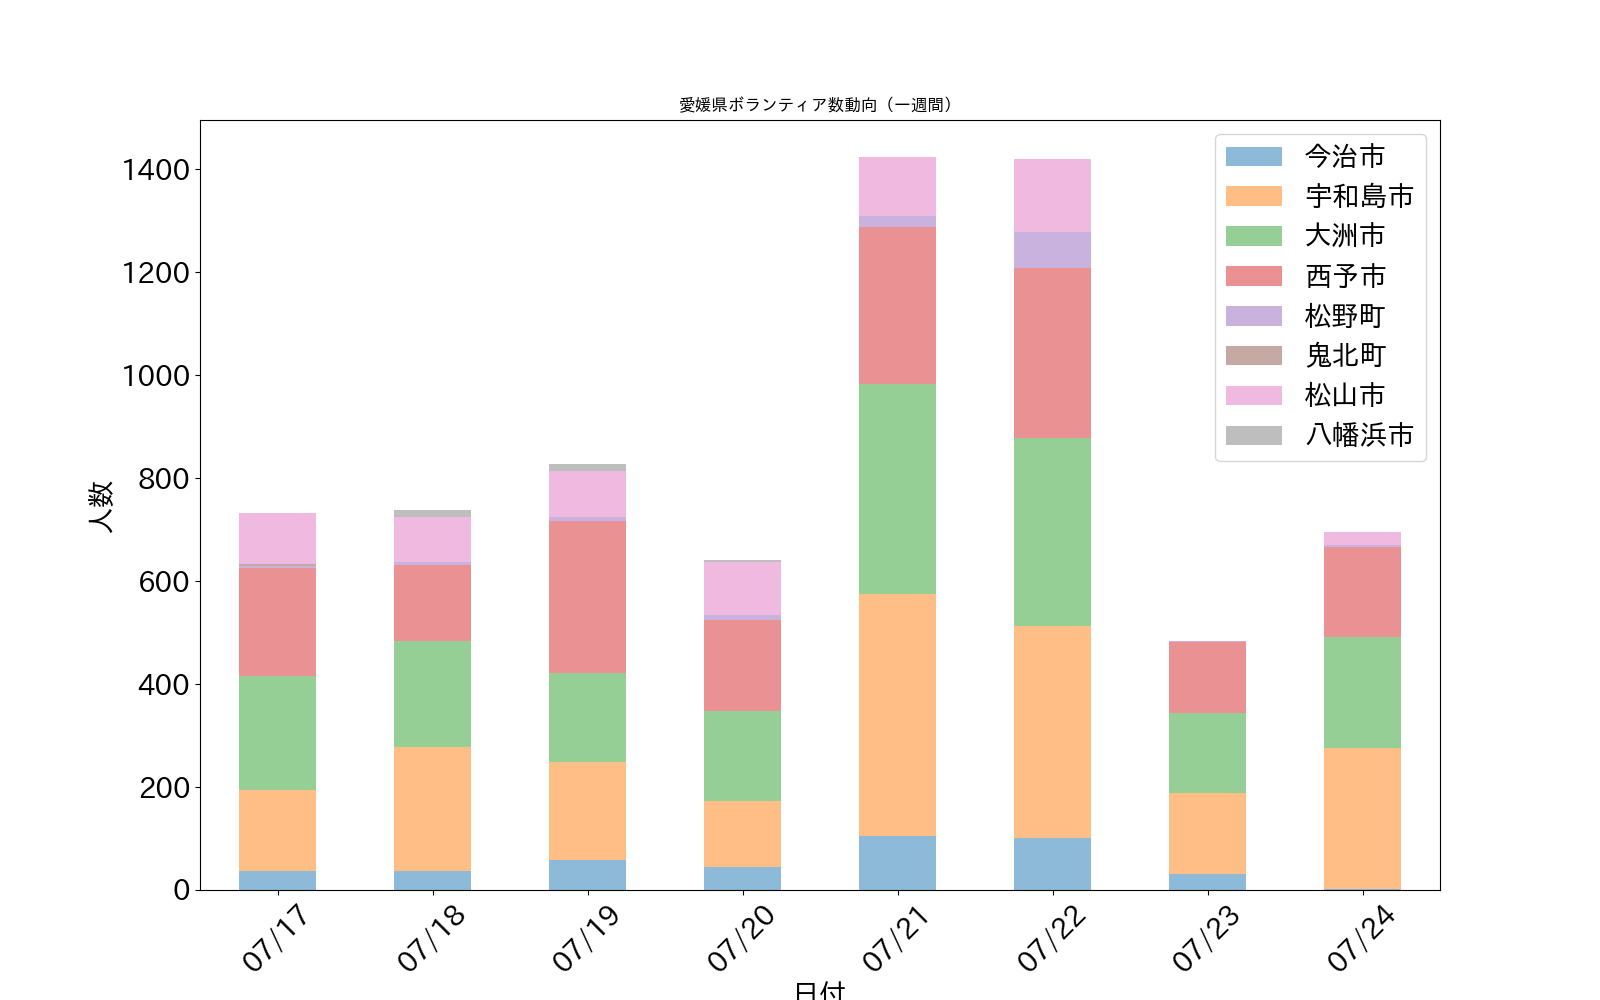
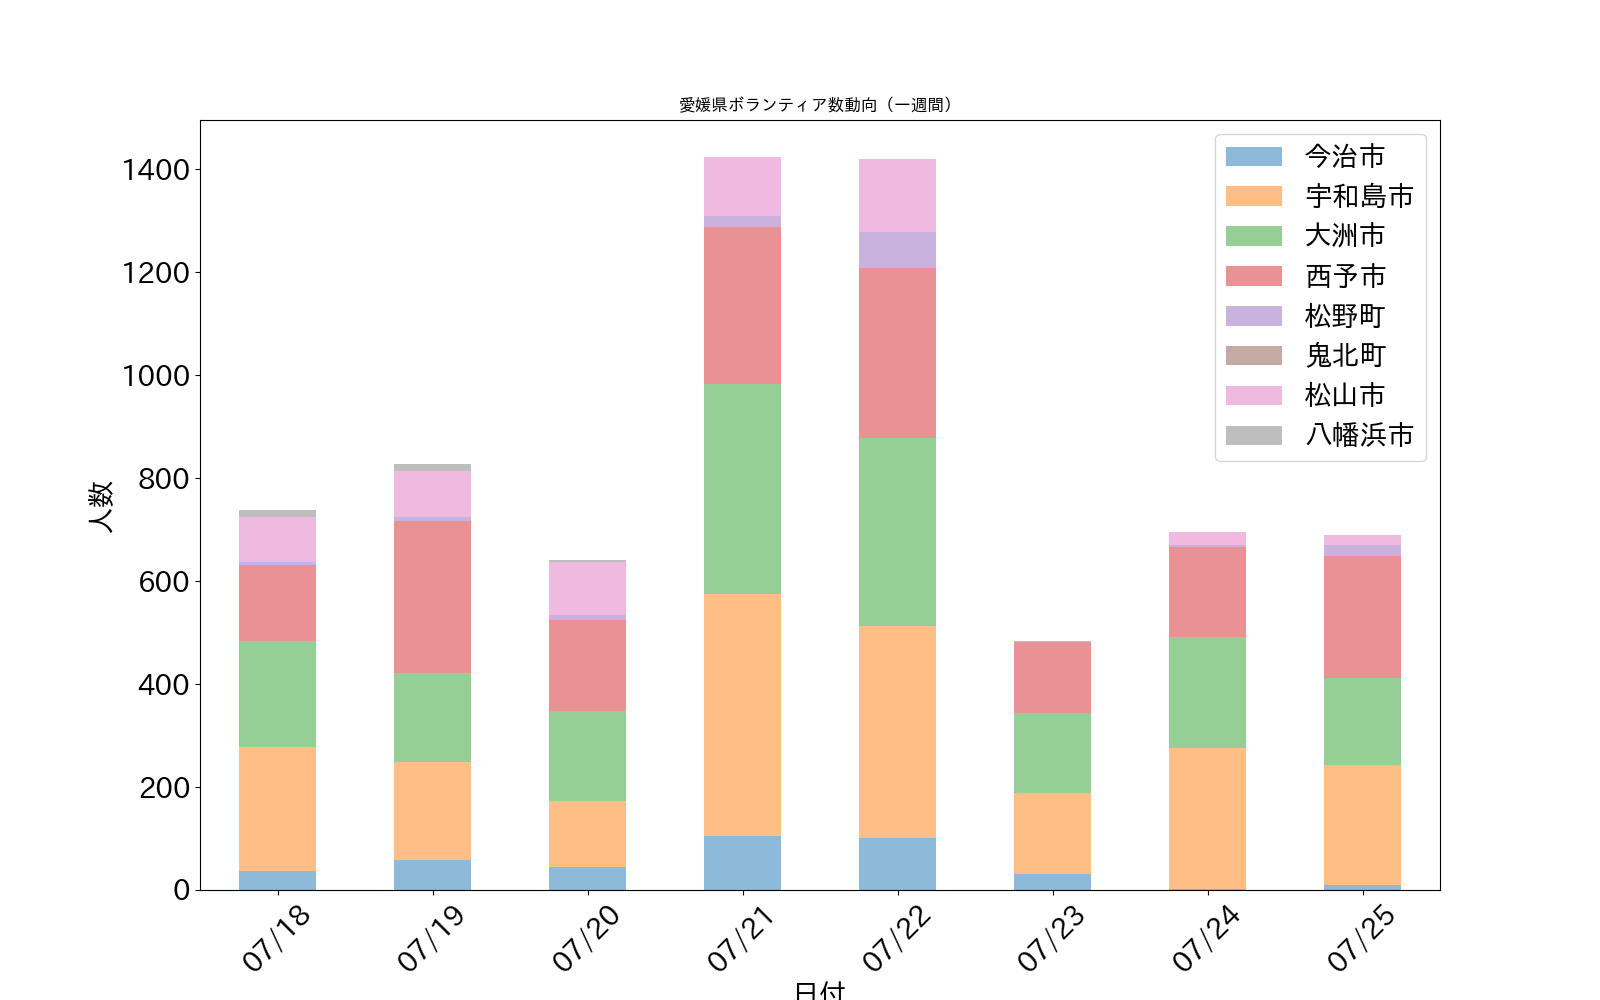
7/25更新、傾向表追加

diff --git a/_pages/volunteer_aggregation.md b/_pages/volunteer_aggregation.md
@@ -1,31 +1,31 @@
 ---
-title: 【愛媛県ボランティア数集計（デイリー・地域別）07/24版）】
+title: 【愛媛県ボランティア数集計（デイリー・地域別）07/25版）】
 description: 松山市社協、八幡浜市社協、愛媛災害支援センターが公開しているデータを元に、ボランティア数のグラフを作成・公開しています。
 permalink: /volunteer/aggregation/
 date: 2018-07-18 05:59:06 +0900
-last_modified_at: 2018-07-25 07:32:45 +0900
+last_modified_at: 2018-07-25 19:58:00 +0900
 sidebar:
   nav: volunteer_menu
 
 ---
-## 【週毎のボランティア数動向】
-
-![愛媛県内ボランティア数（週次）](/assets/images/volunteer_count_week.png)
-
-| 日付                |   今治市 |   宇和島市 |   大洲市 |   西予市 |   松野町 |   鬼北町 |   松山市 |   八幡浜市 |
-|:--------------------|---------:|-----------:|---------:|---------:|---------:|---------:|---------:|-----------:|
-| 07/10-07/15 |      419 |       1172 |     2562 |     2552 |      117 |      174 |      781 |        116 |
-| 07/16-07/22 |      484 |       1902 |     2040 |     2056 |      155 |       53 |      867 |         62 |
-| 07/23-07/29 |       34 |        429 |      373 |      312 |        5 |        0 |       27 |          0 |
-
-## 【07/24含め過去一週間分のデータを更新】
+## 【07/25含め過去一週間分のデータを更新】
 
 各社協、ボランティアセンターが公開している情報を元に、愛媛県内のボランティア数の一覧とグラフを公開しています。データ数が増えてきたので過去８日以内の表示にしています。全データは[こちら](https://docs.google.com/spreadsheets/d/1h-GFHoNa55P96wu_HNbPk899eN4HZcnu1T9q4eag8Uc/edit#gid=0)にあります。 [^1]
 
 ## 傾向
 
-今治は収束しつつあり、今週は10名/日程度のボランティアで実施予定。
-宇和島、大洲、西予はいずれも前日より増加、松山は休み明けで少数のボランティアでしたが、引き続き募集とのことです。
+- 松山は粟井地区のみのボランティアで落ち着いてきた模様。[宇和島へのボランティア送迎バス開始](http://hecoman.matsuyama-wel.jp/blog180724171951.html)
+- 大洲は7/25よりボランティア対象範囲を愛媛県内に縮小し落ち着きつつあるとのVCからの報告あり
+  - ただし[異論](https://www.facebook.com/ozusvc/posts/293601624719146)もある
+- 宇和島市、西予市は引き続きボランティアは必要。
+
+
+ エリア  |         前日比         |         前週同日比
+:------- | ---------------------: | ---------------------:
+宇和島市 | :arrow_lower_right:-40 |  :arrow_lower_right:-8
+大洲市   | :arrow_lower_right:-48 | :arrow_lower_right:-36
+西予市   | :arrow_upper_right:+63 | :arrow_upper_right:+90
+
 
 暑い日が続きますが、ボランティア時に気をつける[熱中症対策のイラストリーフレット](https://cheerup-ehime.github.io/volunteer/heatstroke-illustrated/)を作成しましたので、是非ご活用ください。（https://cheerup-ehime.github.io/volunteer/heatstroke-illustrated/）
 
@@ -39,7 +39,6 @@ sidebar:
 
 | 日付   |   今治市 |   宇和島市 |   大洲市 |   西予市 |   松野町 |   鬼北町 |   松山市 |   八幡浜市 |
 |:-------|---------:|-----------:|---------:|---------:|---------:|---------:|---------:|-----------:|
-| 07/17  |       37 |        157 |      222 |      210 |        4 |        3 |      100 |          0 |
 | 07/18  |       37 |        241 |      205 |      149 |        4 |        0 |       88 |         14 |
 | 07/19  |       58 |        190 |      174 |      294 |        8 |        0 |       89 |         14 |
 | 07/20  |       44 |        128 |      175 |      177 |       10 |        0 |      102 |          5 |
@@ -47,6 +46,20 @@ sidebar:
 | 07/22  |      101 |        411 |      365 |      330 |       71 |        0 |      141 |          0 |
 | 07/23  |       32 |        156 |      156 |      138 |        2 |        0 |        0 |          0 |
 | 07/24  |        2 |        273 |      217 |      174 |        3 |        0 |       27 |          0 |
+| 07/25  |       10 |        233 |      169 |      237 |       21 |        0 |       19 |          0 |
+
+
+## 【週毎のボランティア数動向】
+
+![愛媛県内ボランティア数（週次）](/assets/images/volunteer_count_week.png)
+
+| 日付                |   今治市 |   宇和島市 |   大洲市 |   西予市 |   松野町 |   鬼北町 |   松山市 |   八幡浜市 |
+|:--------------------|---------:|-----------:|---------:|---------:|---------:|---------:|---------:|-----------:|
+| 07/10-07/15 |      419 |       1172 |     2562 |     2552 |      117 |      174 |      781 |        116 |
+| 07/16-07/22 |      484 |       1902 |     2040 |     2056 |      155 |       53 |      867 |         62 |
+| 07/23-07/29 |       44 |        662 |      542 |      549 |       26 |        0 |       46 |          0 |
+
+
 
 ### 元データ
 
